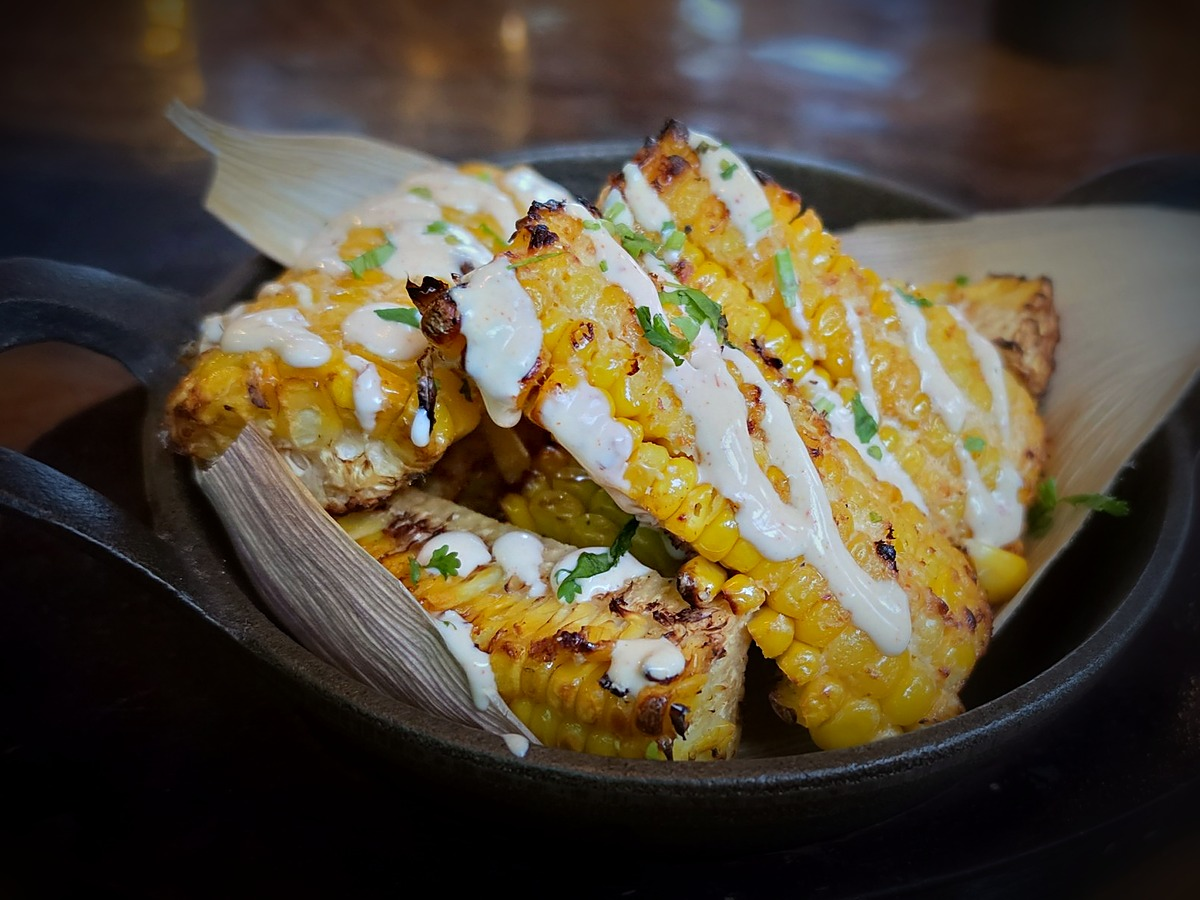
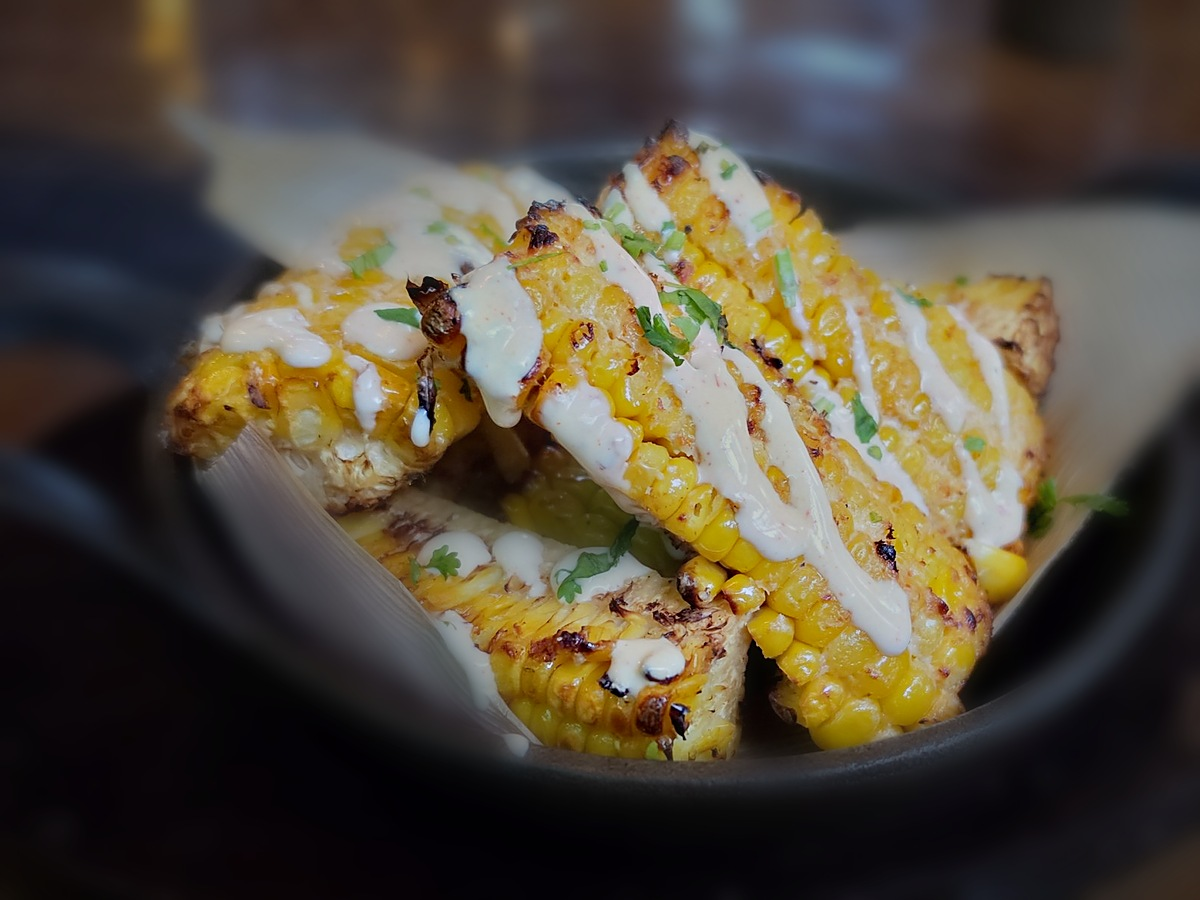
Mascara del platillo en ocho fotos (VER 60)
Suizas, entomatadas, mole, coliflor, elotes, tacos de camaron, gaonera
y ojo de rib eye pasan al revelado con mascara: el fondo se desenfoca y
cede siguiendo el contorno real del plato.

Huevo al gusto, omelette, frutos rojos, barbacoa y empanadas se quedan
como estaban: ahi la mascara salio peor, porque el platillo llena el
cuadro o la segmentacion fallo.

Al rib eye se le volvio a aplicar el nivel 3 de mioglobina.

Claude-Session: https://claude.ai/code/session_01267DXcQMBVnpnCevQeSi3R

diff --git a/index.html b/index.html
@@ -549,7 +549,7 @@ body.sin-scroll{overflow:hidden}
 
 /* Sube este número cada vez que reemplaces una foto. Obliga a los
    navegadores a pedirla de nuevo en vez de usar la que tenían guardada. */
-const VER = "59";
+const VER = "60";
 
 const CONFIG = {
   // Deja "" en lo que todavía no tengas: el botón simplemente no aparece.
